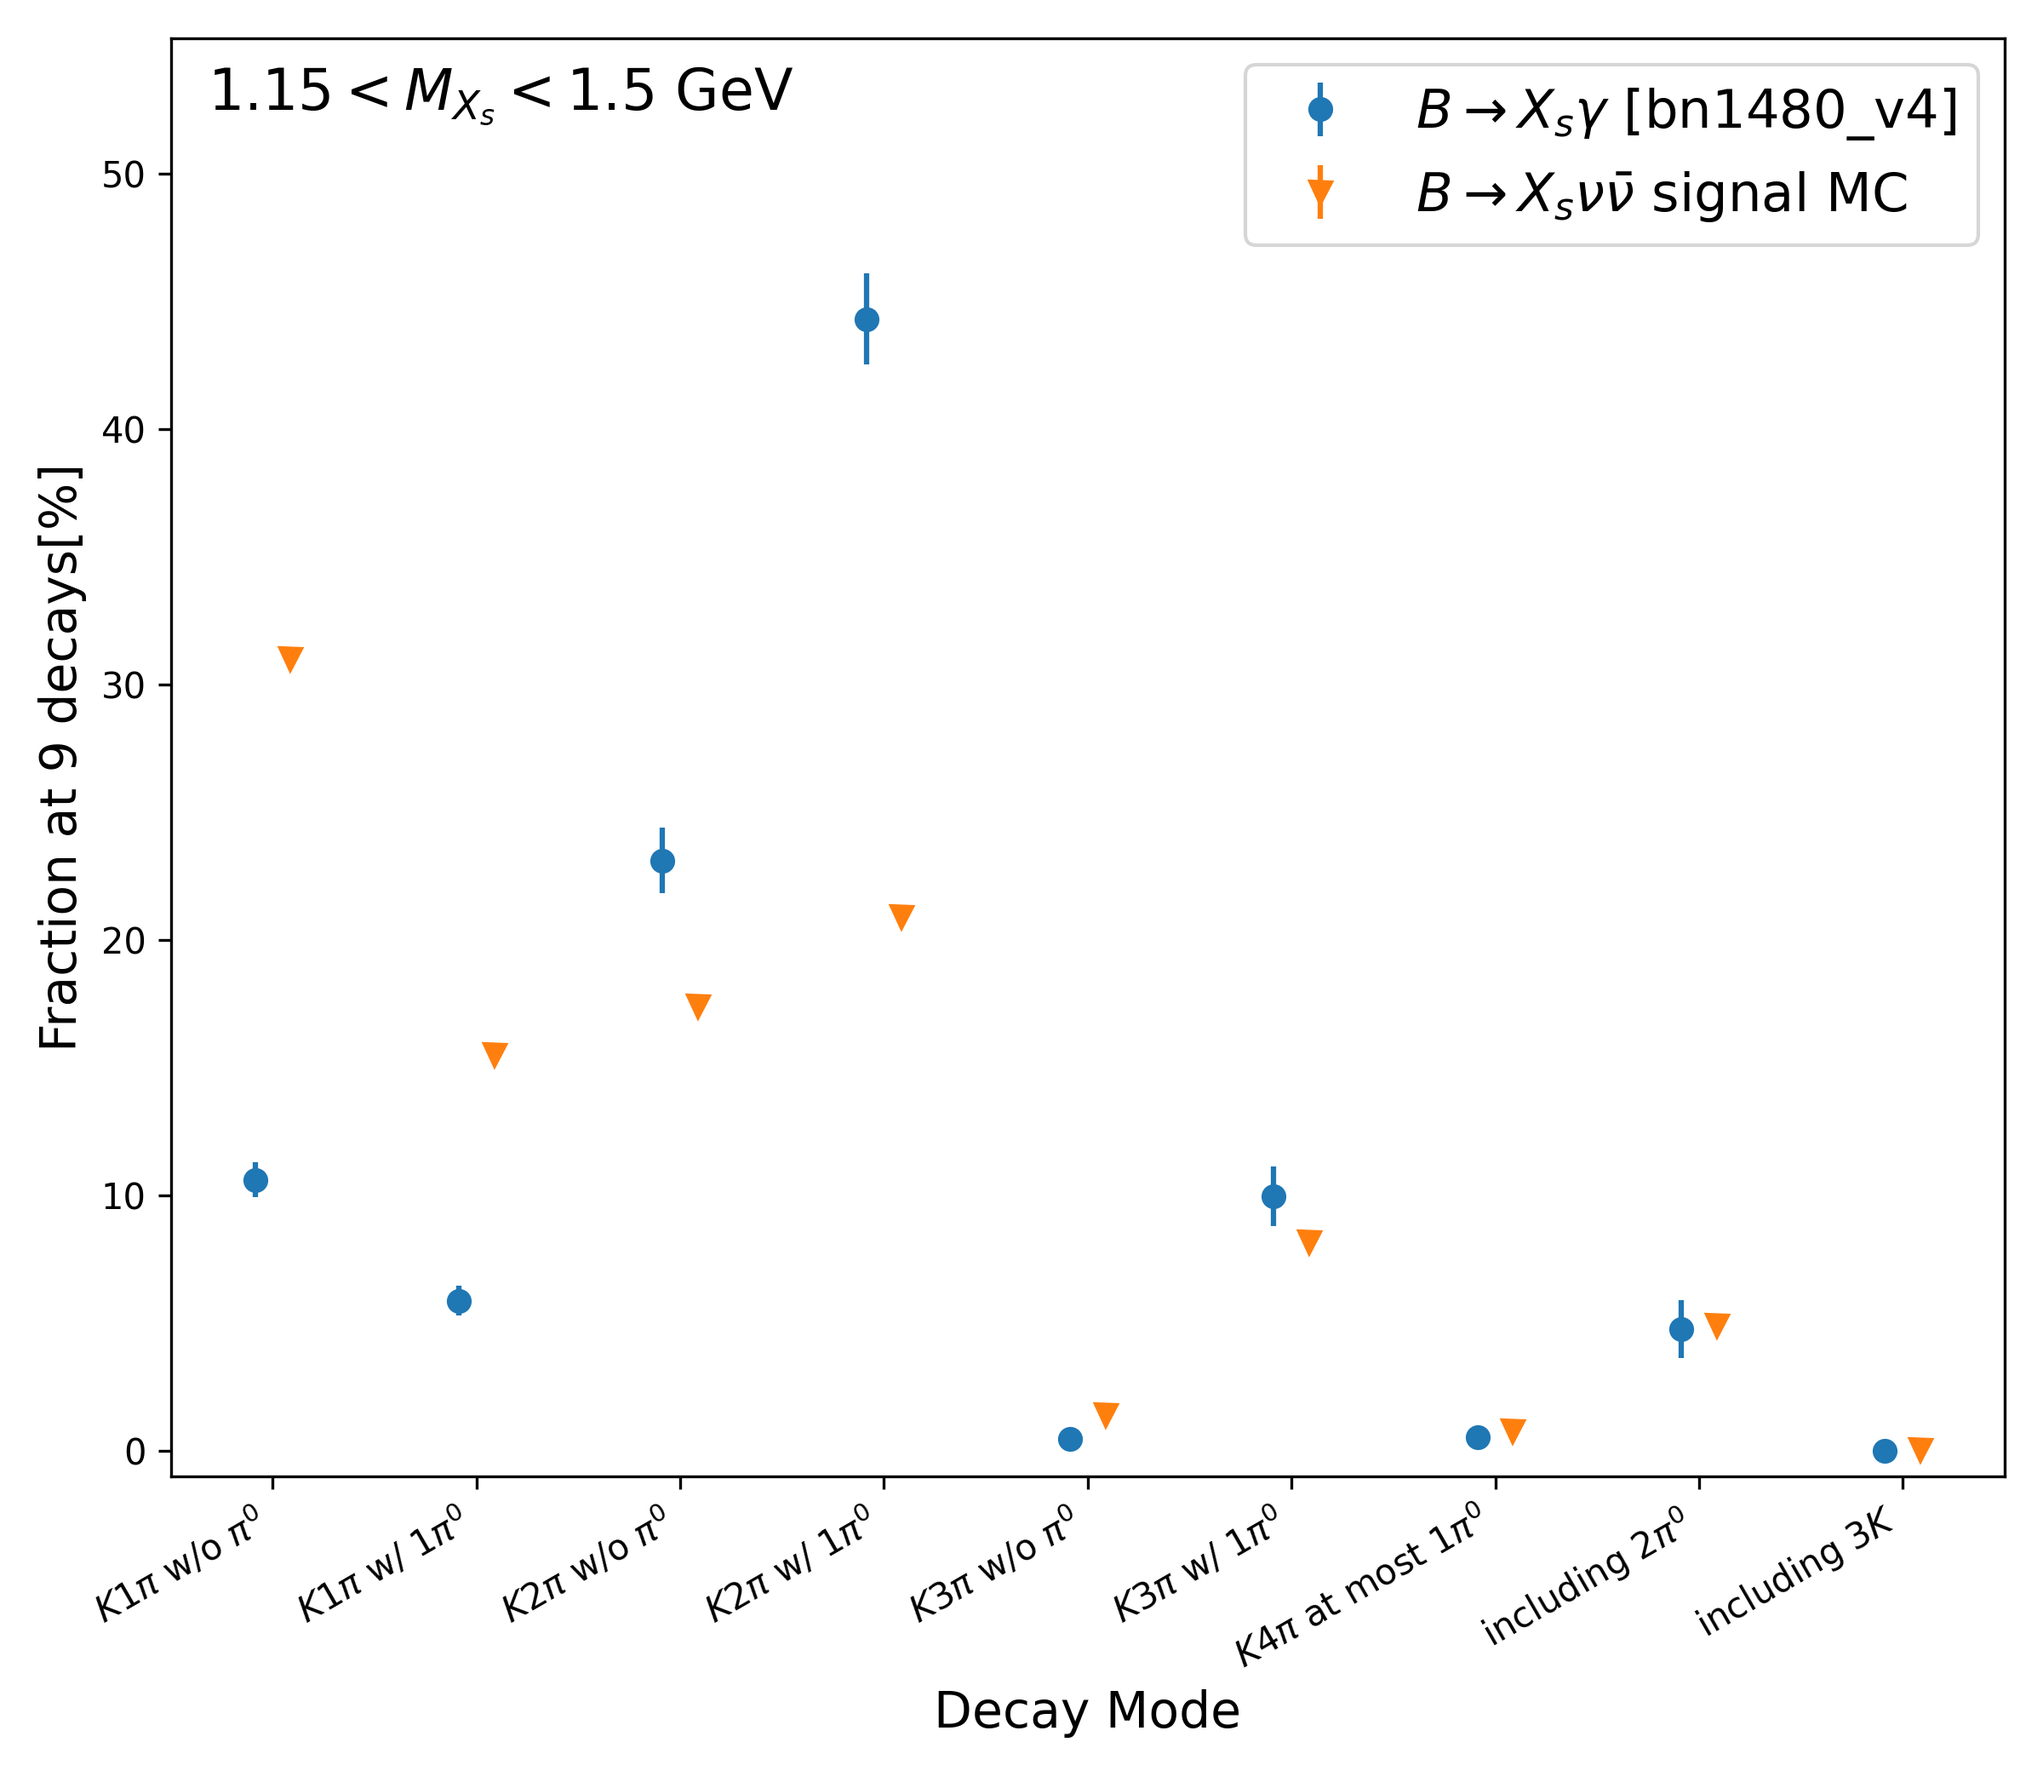
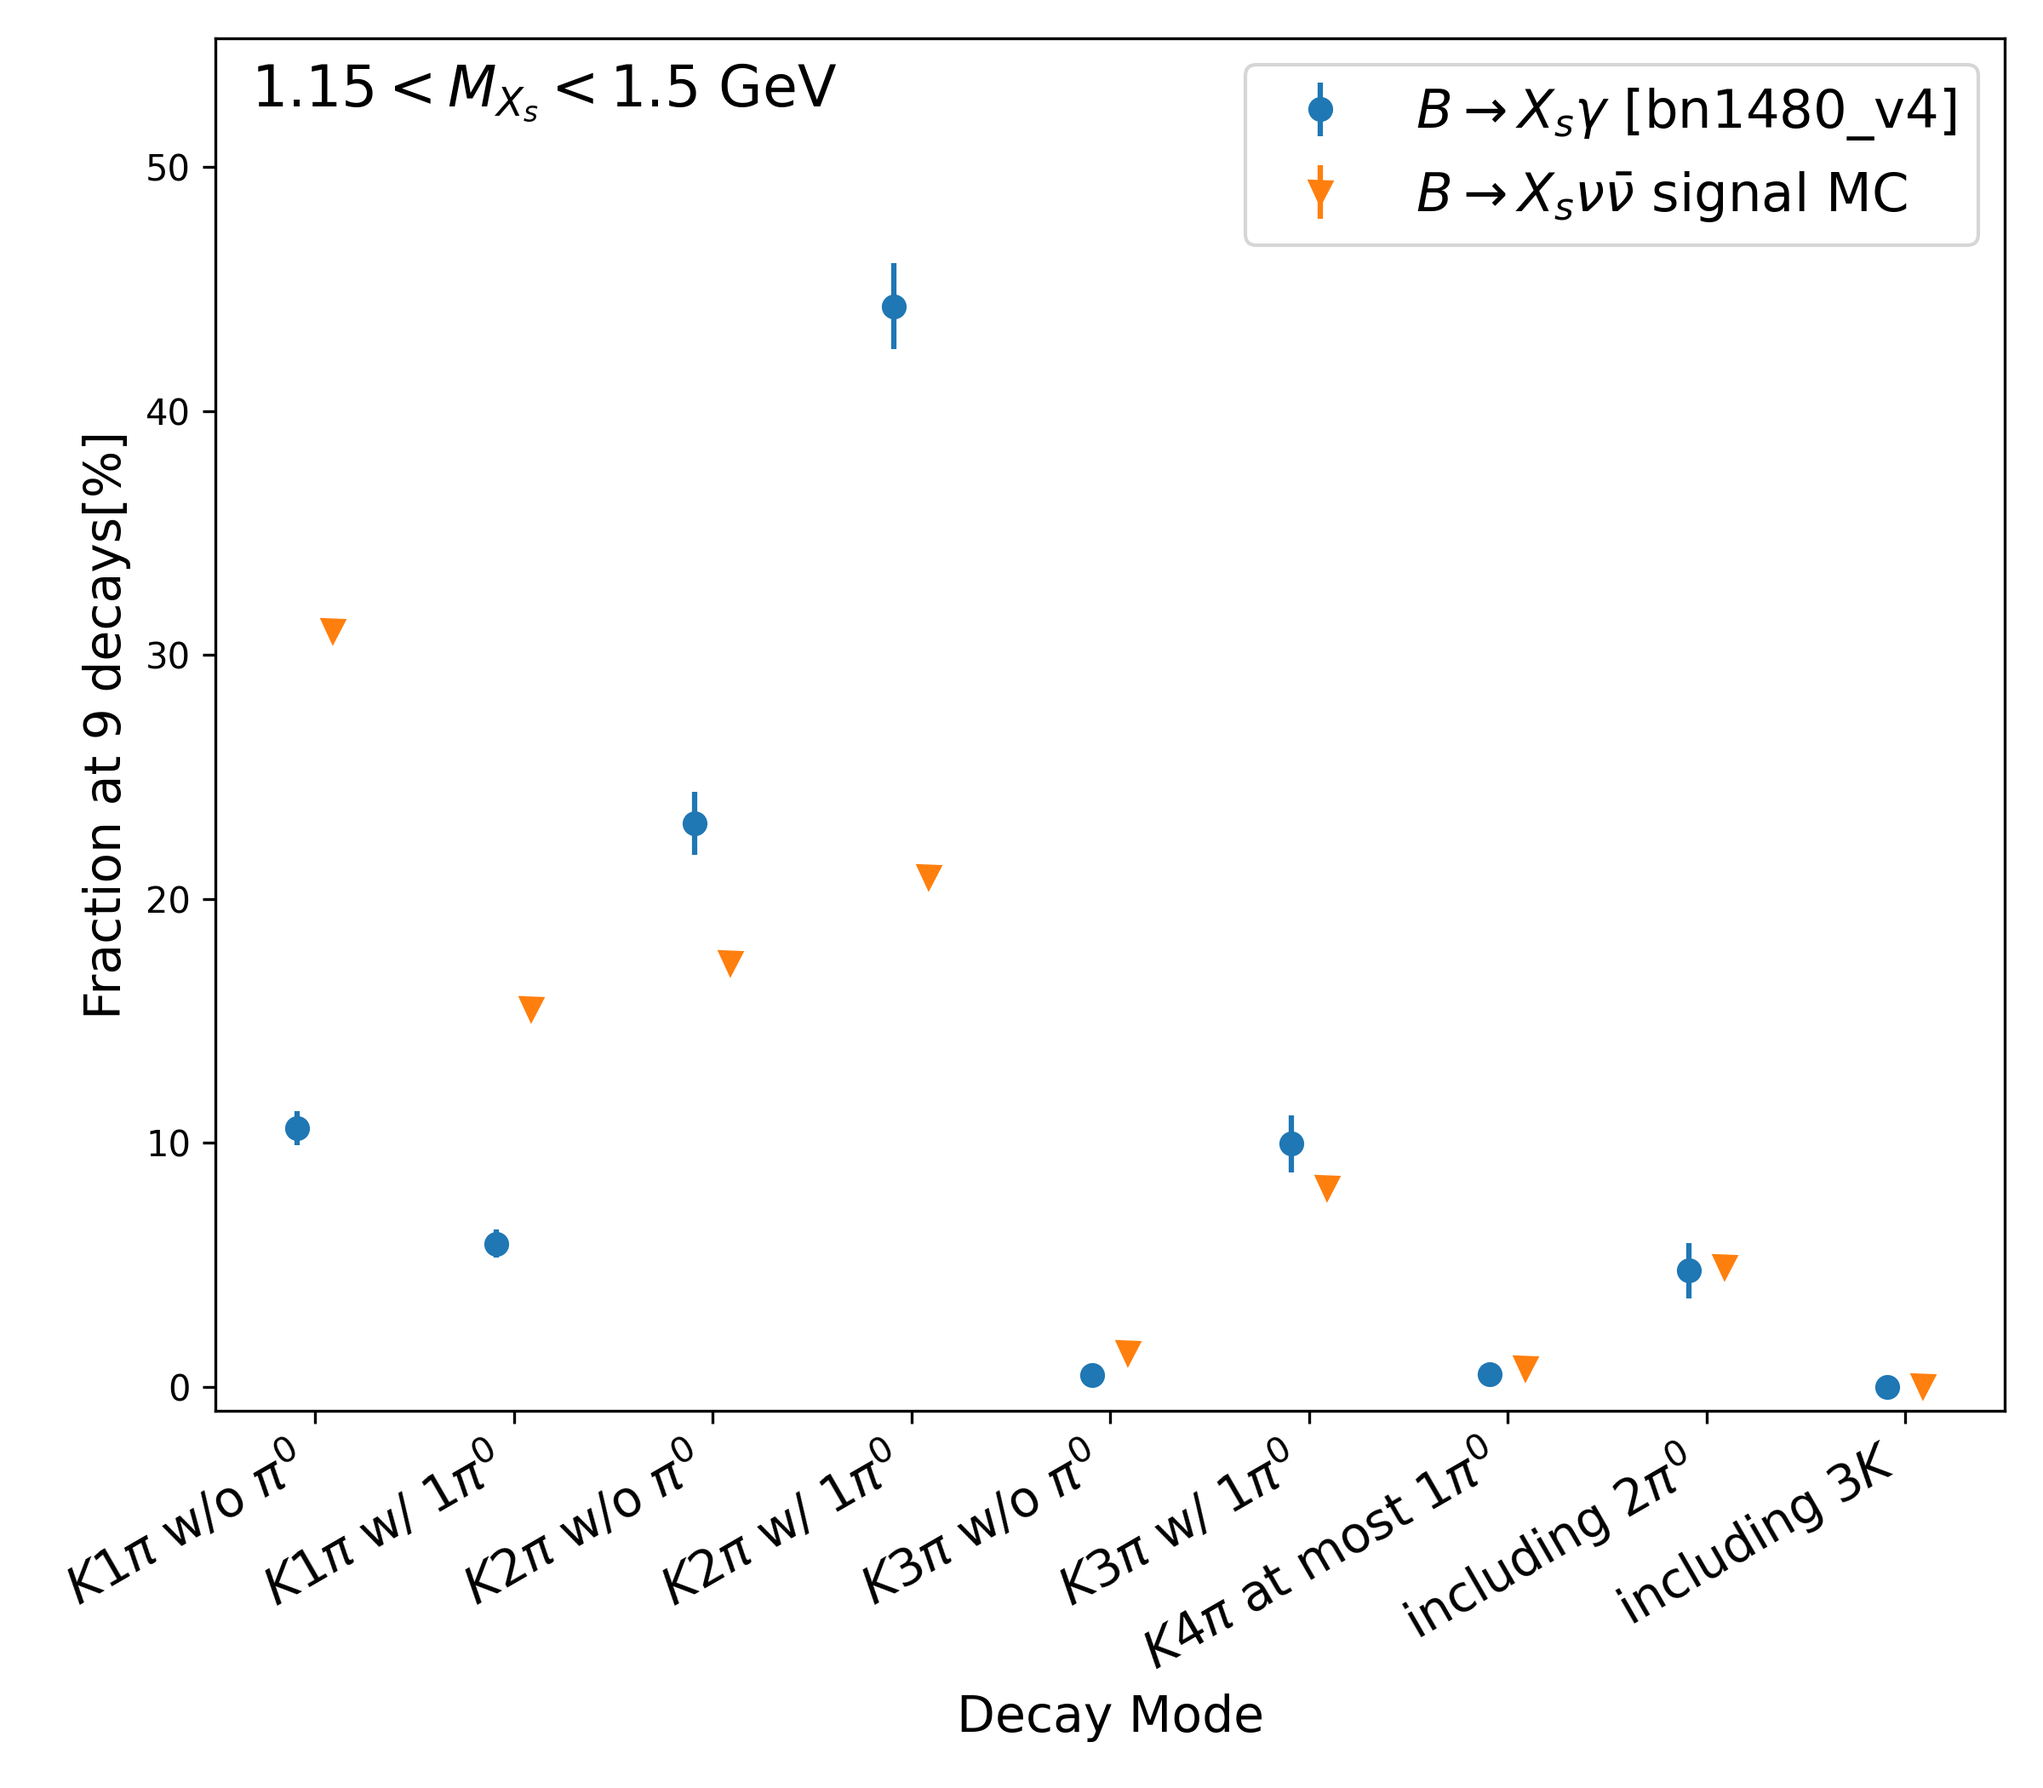
change fragmentation plot maker

diff --git a/tools/DrawFragmentation.py b/tools/DrawFragmentation.py
@@ -19,7 +19,7 @@ def plot_and_save_data(x, y1, yerr1, y2, yerr2, filename, y1_label, y2_label, ti
     
     # Rotate the x-axis labels by 45 degrees
     ax.set_xticks(x)
-    ax.set_xticklabels(x, rotation=30, ha='right')
+    ax.set_xticklabels(x, rotation=30, ha='right', fontsize=14)
 
     # Add a title and labels for the axes
     ax.set_xlabel('Decay Mode', fontsize=14)
